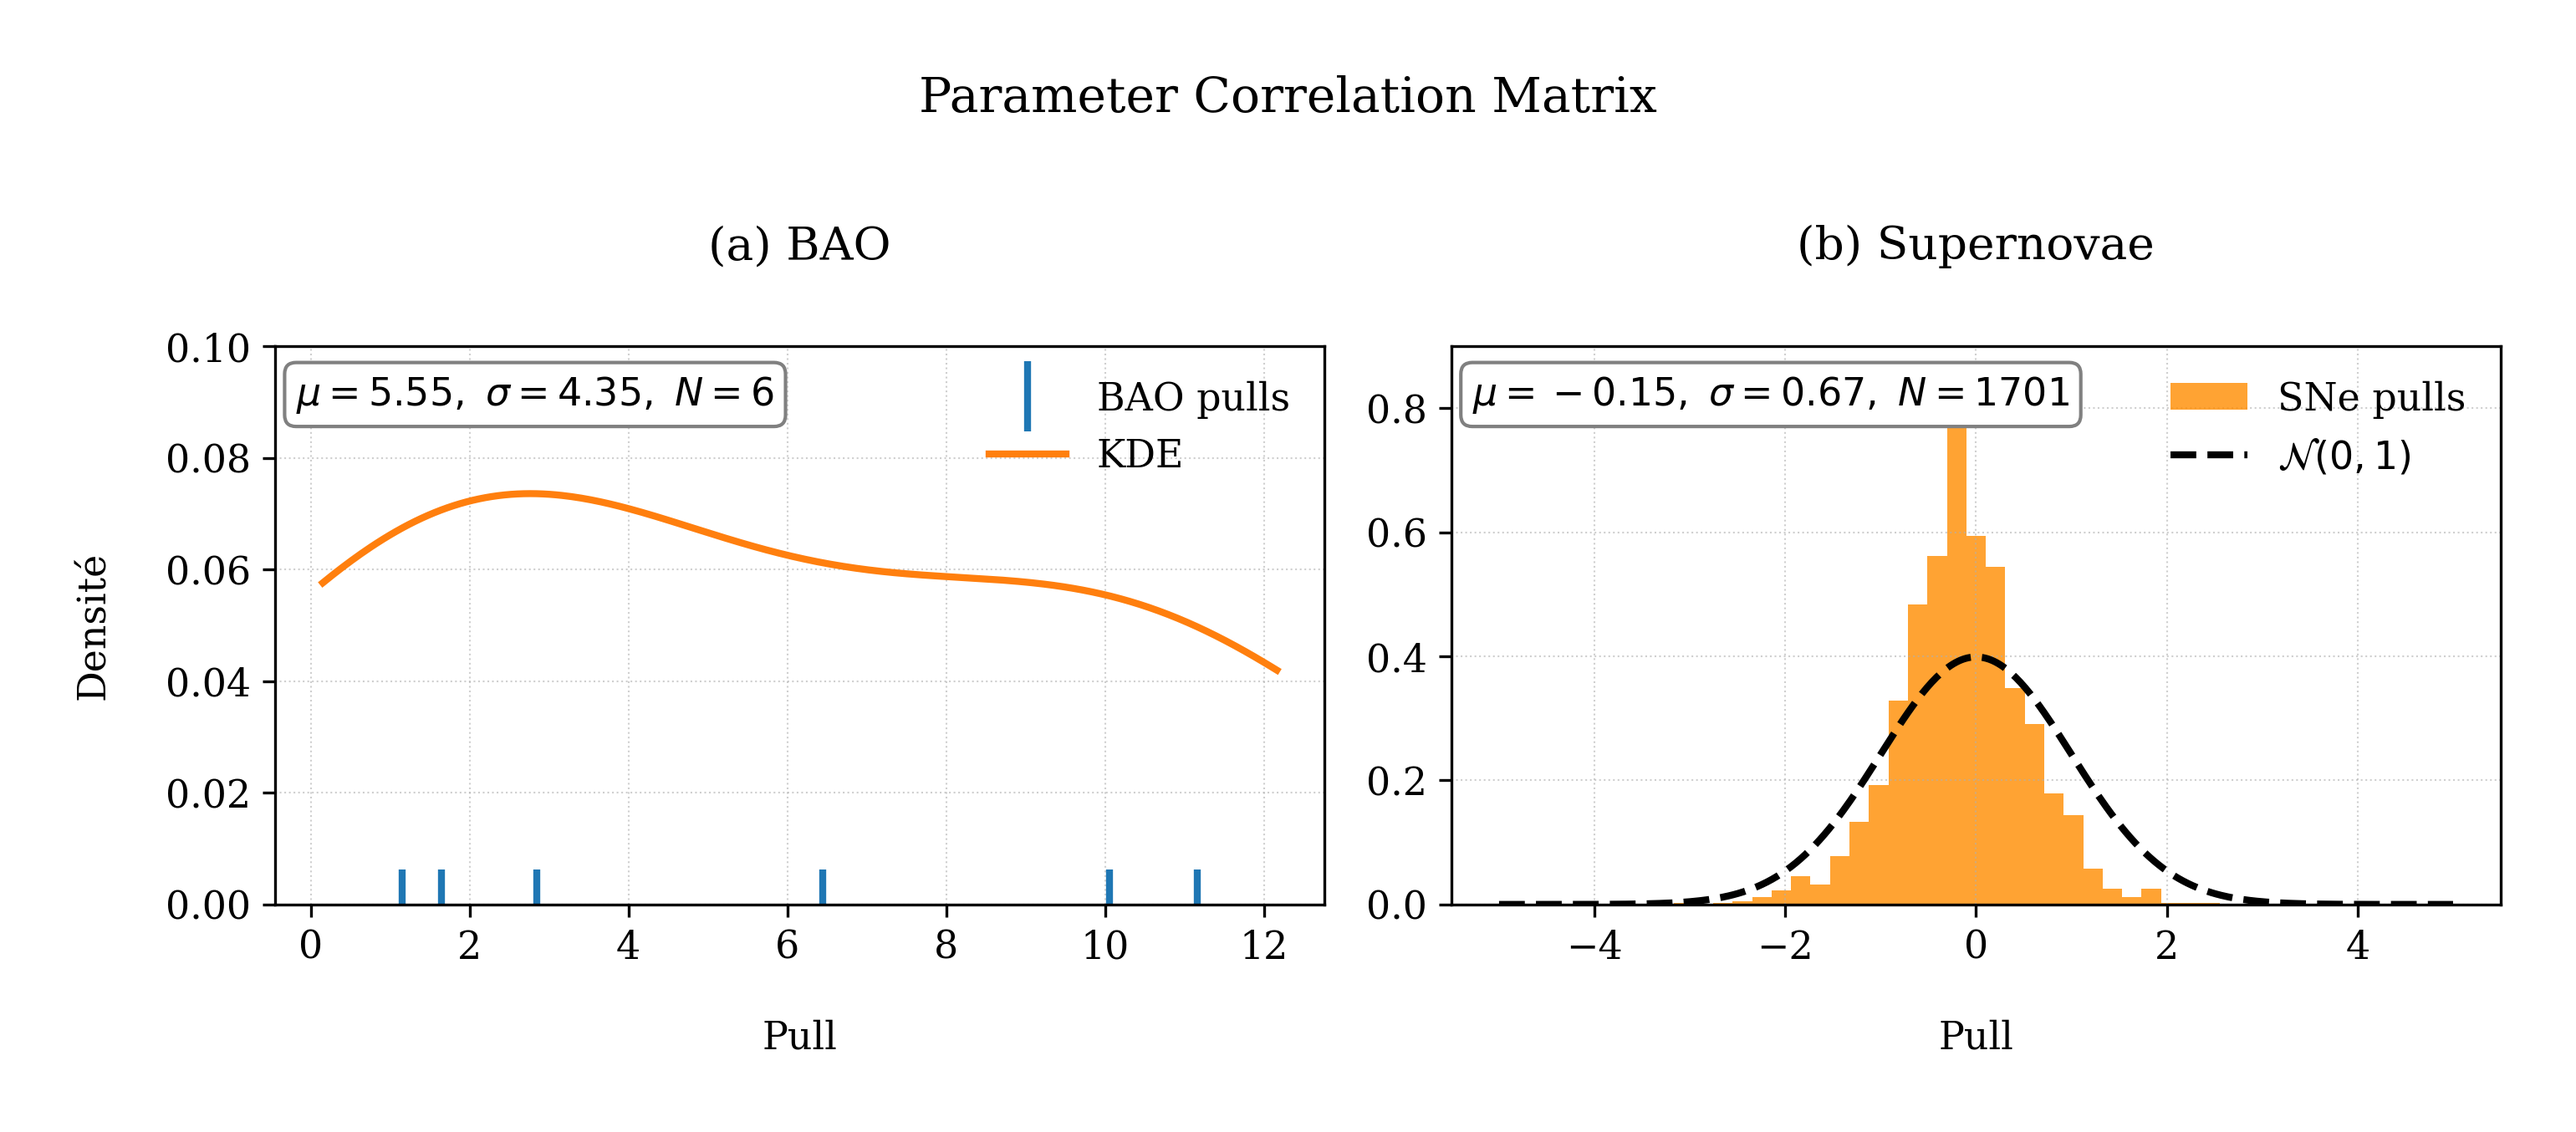
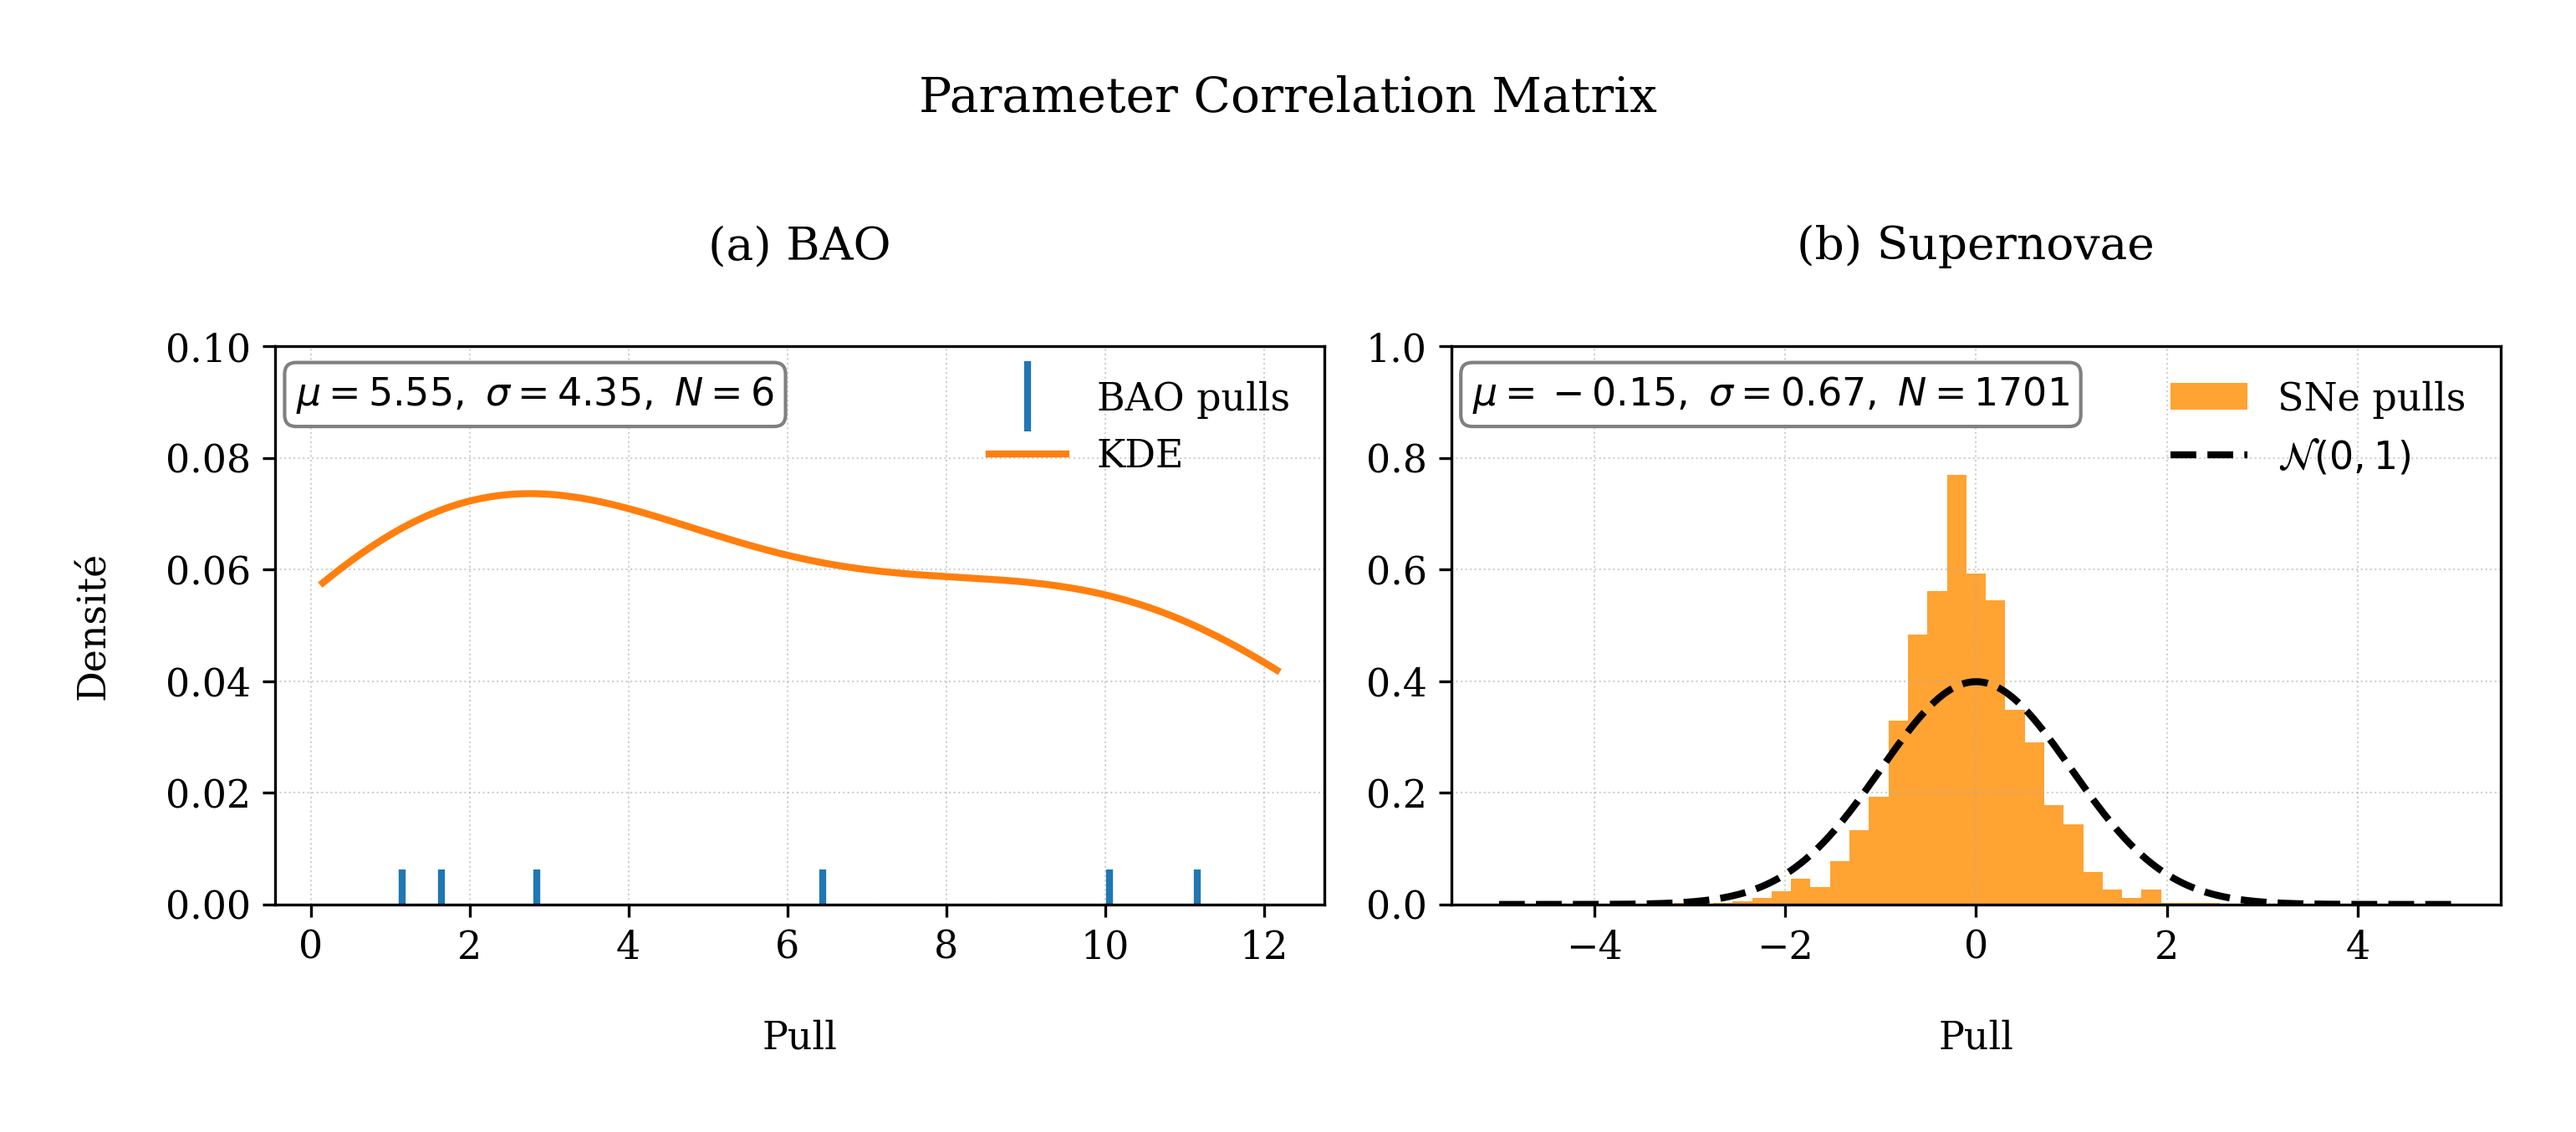
fix(viz): optimize label stacking for Fig 04 and Y-axis scale for Fig 06

diff --git a/zz-scripts/chapter08/08_fig_04_chi2_heatmap.py b/zz-scripts/chapter08/08_fig_04_chi2_heatmap.py
@@ -129,10 +129,11 @@ ax.clabel(
     fontsize=10,
 )
 # Décale légèrement les étiquettes de niveaux pour éviter la superposition
-label_offset = 0.01 * (p1.max() - p1.min())
+label_offset = 0.015 * (p1.max() - p1.min())
 for lbl in cont.labelTexts:
     x, y = lbl.get_position()
     lbl.set_position((x + label_offset, y))
+    lbl.set_ha("left")
 
 # point du minimum
 ax.plot(q0_min, p2_min, "o", color="black", ms=6)
@@ -140,8 +141,11 @@ ax.plot(q0_min, p2_min, "o", color="black", ms=6)
 # annotation du minimum
 bbox = dict(boxstyle="round,pad=0.4", fc="white", ec="gray", alpha=0.8)
 txt = (
-    rf"$\min \chi^2 = {chi2_min:.1f}$\n"
-    rf"$q_0^\star = {q0_min:.3f},\ p_2 = {p2_min:.3f}$"
+    rf"$\min \chi^2 = {chi2_min:.1f}$"
+    + "\n"
+    + rf"$q_0^\star = {q0_min:.3f}$"
+    + "\n"
+    + rf"$p_2 = {p2_min:.3f}$"
 )
 ax.text(0.98, 0.95, txt, transform=ax.transAxes, va="top", ha="right", bbox=bbox)
 

diff --git a/zz-scripts/chapter08/08_fig_06_normalized_residuals_distribution.py b/zz-scripts/chapter08/08_fig_06_normalized_residuals_distribution.py
@@ -161,7 +161,7 @@ def main():
     )
     ax.set_title("(b) Supernovae")
     ax.set_xlabel("Pull")
-    ax.set_ylim(0, 0.9)
+    ax.set_ylim(0, 1.0)
     ax.legend(loc="upper right", frameon=False)
     ax.grid(ls=":", lw=0.5, alpha=0.6)
 
